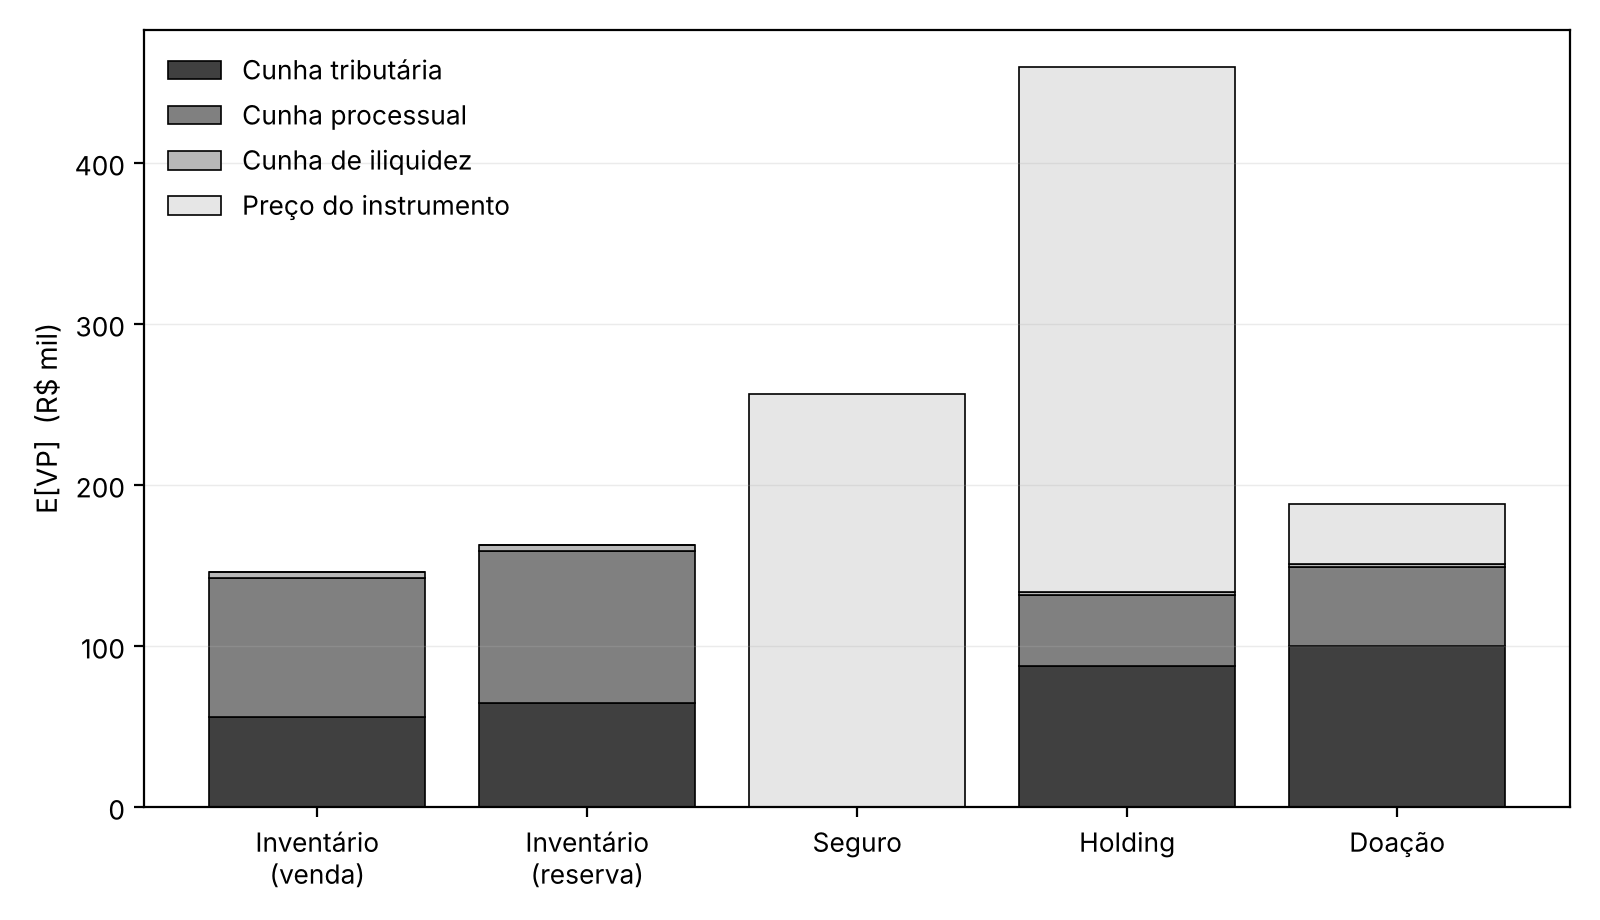
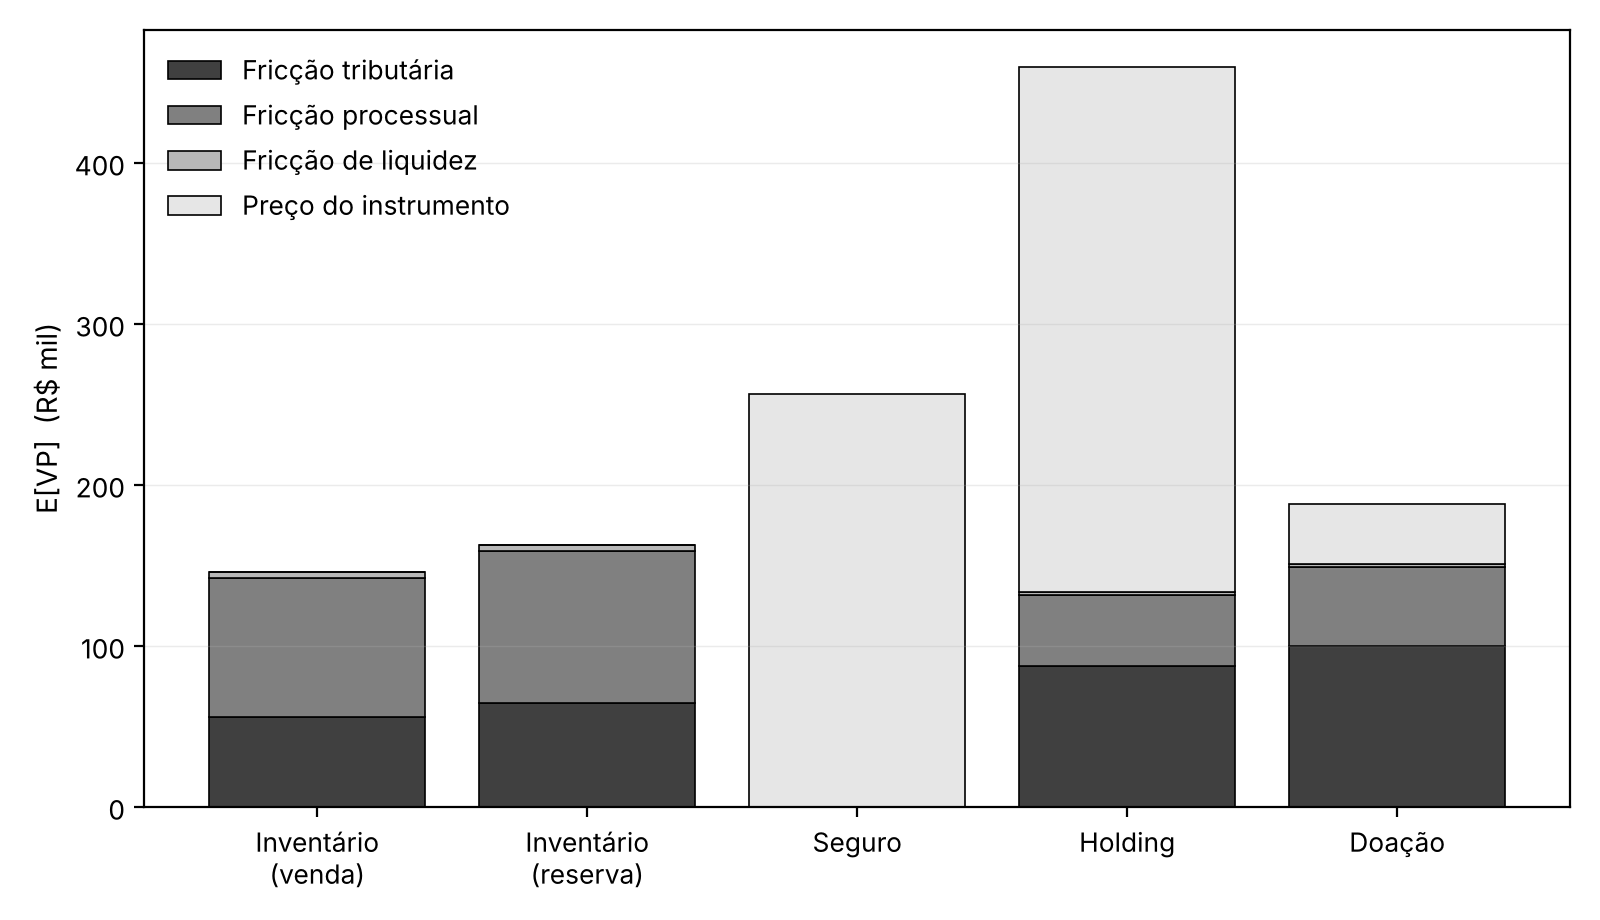
Custo de vida no bloqueio e nova terminologia (v20 da dissertação)
- motor.py: parâmetros consumo_aa e seguro_cobre_consumo (custo de vida da
  família financiado durante o inventário); reserva prévia sem crédito passa a
  usar o mínimo entre crédito e venda (antes devolvia custo infinito).
- rodar_v10.py: linhas de custo de vida nas sensibilidades complementares.
- Tabelas e figuras: "fricção" no lugar de "cunha", "abandono da apólice" no
  lugar de "caducidade".

Claude-Session: https://claude.ai/code/session_01JJ4Z39ne8bo16f1riJNH3E

Changed region(s): [[0.1562, 0.1217, 0.3125, 0.1826], [0.1562, 0.0609, 0.2812, 0.0913]]

diff --git a/motor/motor.py b/motor/motor.py
@@ -38,7 +38,8 @@ def estrategias(cen, r: float, regime: str, produto=("WL", 10),
                 ir_contrafactual=False, plusvalia=None, aliquota_gk=None,
                 aliquota_ir=None, taxa_adm_vgbl=None,
                 holding_constituicao=None, holding_manutencao=None,
-                carga_premio=1.0, gk_transmissao_gratuita=0.0):
+                carga_premio=1.0, gk_transmissao_gratuita=0.0,
+                consumo_aa=0.0, seguro_cobre_consumo=False):
     """Retorna (E, REC, ci, meta, COMP).
 
     COMP[estrategia](t) → dict com a decomposição do MESMO custo que E devolve,
@@ -76,6 +77,17 @@ def estrategias(cen, r: float, regime: str, produto=("WL", 10),
                           tributado a 15% quando a transmissão se faz a VALOR DE
                           MERCADO (art. 23 da Lei 9.532/1997). 0,0 = transmissão
                           pelo valor declarado, sem IR no ato (caso base).
+    v11 (02/nov/2026) — custo de vida durante o bloqueio:
+      consumo_aa          despesa anual da família como fração do patrimônio,
+                          que precisa ser financiada enquanto os bens estão
+                          bloqueados no inventário (0,0 = caso base, omitida).
+                          Financiada pelo mínimo entre crédito-ponte e venda
+                          forçada, na proporção do patrimônio que fica preso no
+                          espólio em cada estratégia (holding e doação retiram
+                          parte dele; seguro e VGBL, dimensionados para o custo
+                          do inventário, não).
+      seguro_cobre_consumo  o capital segurado passa a cobrir também o consumo
+                          do período de bloqueio (capital = CI + consumo).
     """
     ci = custos.custo_inventario(cen.uf, cen.patrimonio, cen.n_herdeiros,
                                  cen.modalidade_inventario, regime,
@@ -98,16 +110,27 @@ def estrategias(cen, r: float, regime: str, produto=("WL", 10),
     cunha = custos.cunha_iliquidez(ci.total, prazo, r_bruto, spread_ponte,
                                    desagio_venda, **kw_gk)
     desc = lambda v, t: v / (1 + r) ** (t + 0.5)
+    # v11: consumo da família durante o bloqueio, financiado como o inventário
+    # (saques mensais ao longo do prazo ≈ montante único com metade do prazo).
+    consumo_total = consumo_aa * cen.patrimonio * prazo / 12
+
+    def _cc(frac):
+        z = {"cunha": 0.0, "iliquidez": 0.0, "tributo_gk": 0.0}
+        if consumo_total <= 0 or frac <= 0:
+            return z
+        return custos.cunha_iliquidez(consumo_total * frac, prazo / 2, r_bruto,
+                                      spread_ponte, desagio_venda, **kw_gk)
+    cc1 = _cc(1.0)
     E, REC, meta, COMP = {}, {}, {}, {}
     Z = {"tributaria": 0.0, "processual": 0.0, "iliquidez": 0.0, "instrumento": 0.0}
     meta["r_desconto"], meta["r_bruto"] = r, r_bruto
 
     # baseline: venda forçada (usa o mínimo entre ponte e venda — família racional)
-    E["baseline_venda"] = lambda t: desc(ci.total + cunha["cunha"], t)
+    E["baseline_venda"] = lambda t: desc(ci.total + cunha["cunha"] + cc1["cunha"], t)
     COMP["baseline_venda"] = lambda t: {
-        "tributaria": desc(ci.itcmd + cunha["tributo_gk"], t),
+        "tributaria": desc(ci.itcmd + cunha["tributo_gk"] + cc1["tributo_gk"], t),
         "processual": desc(ci.honorarios + ci.emolumentos_ou_custas + ci.multa, t),
-        "iliquidez": desc(cunha["iliquidez"], t),
+        "iliquidez": desc(cunha["iliquidez"] + cc1["iliquidez"], t),
         "instrumento": 0.0}
     REC["baseline_venda"] = lambda t: 0.0   # nada foi desembolsado em vida
 
@@ -119,7 +142,11 @@ def estrategias(cen, r: float, regime: str, produto=("WL", 10),
     grossup = ci_com_reserva.total - ci.total
     gu_trib = ci_com_reserva.itcmd - ci.itcmd
     gu_proc = grossup - gu_trib
-    ponte = custos.cunha_iliquidez(ci.total, prazo, r_bruto, spread_ponte, 1e-9)["credito_ponte"]
+    # v11: mínimo entre ponte e venda, como no inventário direto. No caso base o
+    # crédito é sempre mais barato e o resultado é idêntico ao v10; sem crédito a
+    # versão anterior devolvia custo infinito para a reserva.
+    ponte = custos.cunha_iliquidez(ci.total, prazo, r_bruto, spread_ponte,
+                                   desagio_venda, **kw_gk)["cunha"] + cc1["cunha"]
     E["baseline_reserva"] = lambda t: desc(ci.total + grossup + ponte, t)
     COMP["baseline_reserva"] = lambda t: {
         "tributaria": desc(ci.itcmd + gu_trib, t),
@@ -133,7 +160,9 @@ def estrategias(cen, r: float, regime: str, produto=("WL", 10),
     # WL5/10/20/30: quita em N anos; WL60...WL100: quita na idade X; cobertura
     # vitalícia continua após a quitação com custo zero.
     fam, prz = produto
-    p = premios.premio(cen.idade, fam, prz, cen.sexo, ci.total, cen.classe_risco)
+    capital_seg = ci.total + (consumo_total if seguro_cobre_consumo else 0.0)
+    cc_seg = cc1 if not seguro_cobre_consumo else _cc(0.0)
+    p = premios.premio(cen.idade, fam, prz, cen.sexo, capital_seg, cen.classe_risco)
     if p is not None and carga_premio != 1.0:
         p = {**p, "premio_anual": p["premio_anual"] * carga_premio,
              "premio_mensal": p["premio_mensal"] * carga_premio,
@@ -158,7 +187,7 @@ def estrategias(cen, r: float, regime: str, produto=("WL", 10),
             pagos = premios.vp_premios(p, r, min(t + 1, max_anos),
                                        mensal=pagamento_mensal)
             if vit or t < prz:      # cobertura vigente na data do óbito
-                return pagos
+                return pagos + desc(cc_seg["cunha"], t)
             return pagos + E["baseline_venda"](t)   # cobertura expirada
         E["seguro"] = _e_seguro
         E["seguro"].info = p["chave"]
@@ -169,16 +198,18 @@ def estrategias(cen, r: float, regime: str, produto=("WL", 10),
             pagos = premios.vp_premios(p, r, min(t + 1, max_anos),
                                        mensal=pagamento_mensal)
             if vit or t < prz:
-                return {**Z, "instrumento": pagos}
+                return {**Z, "instrumento": pagos,
+                        "iliquidez": desc(cc_seg["iliquidez"], t),
+                        "tributaria": desc(cc_seg["tributo_gk"], t)}
             base = COMP["baseline_venda"](t)
             return {**base, "instrumento": pagos}
         COMP["seguro"] = _c_seguro
         # valor de resgate: fração do capital segurado (= custo do inventário)
         REC["seguro"] = lambda t: resgate.valor_resgate(
-            ci.total, fam, prz, cen.sexo, cen.idade, t)
+            capital_seg, fam, prz, cen.sexo, cen.idade, t)
         meta["seguro"] = {"familia": fam, "prazo": prz, "premio_anual": pa,
                           "premio_mensal": p["premio_mensal"], "p": p,
-                          "max_anos": max_anos, "capital": ci.total,
+                          "max_anos": max_anos, "capital": capital_seg,
                           "chave": p["chave"], "mensal": pagamento_mensal,
                           "carregamento": premios.carregamento_fracionamento(
                               fam, prz, ci.total)}
@@ -205,15 +236,17 @@ def estrategias(cen, r: float, regime: str, produto=("WL", 10),
                                          desagio_venda, **kw_gk)["cunha"] if ci_fora else 0)
     cunha_fora_d = (custos.cunha_iliquidez(ci_fora.total, prazo, r_bruto, spread_ponte,
                                            desagio_venda, **kw_gk) if ci_fora else None)
-    E["holding"] = lambda t: (h["custo_inicial"] + gk_h
+    cc_h = _cc(fora / cen.patrimonio)
+    E["holding"] = lambda t: (h["custo_inicial"] + gk_h + desc(cc_h["cunha"], t)
                               + sum(h["manutencao_anual"] / (1 + r) ** k for k in range(t + 1))
                               + (desc(ci_fora.total + cunha_fora, t) if ci_fora else 0))
     COMP["holding"] = lambda t: {
-        "tributaria": h["itcmd_doacao"] + gk_h + (desc(ci_fora.itcmd + cunha_fora_d["tributo_gk"], t)
+        "tributaria": h["itcmd_doacao"] + gk_h + desc(cc_h["tributo_gk"], t) + (desc(ci_fora.itcmd + cunha_fora_d["tributo_gk"], t)
                                            if ci_fora else 0.0),
         "processual": (desc(ci_fora.honorarios + ci_fora.emolumentos_ou_custas + ci_fora.multa, t)
                        if ci_fora else 0.0),
-        "iliquidez": (desc(cunha_fora_d["iliquidez"], t) if ci_fora else 0.0),
+        "iliquidez": (desc(cunha_fora_d["iliquidez"], t) if ci_fora else 0.0)
+                     + desc(cc_h["iliquidez"], t),
         "instrumento": h["constituicao"] + sum(h["manutencao_anual"] / (1 + r) ** k
                                                for k in range(t + 1))}
     REC["holding"] = lambda t: 0.0   # custo de constituição é afundado
@@ -246,14 +279,16 @@ def estrategias(cen, r: float, regime: str, produto=("WL", 10),
         cunha_res_d = custos.cunha_iliquidez(ci_res.total, prazo, r_bruto, spread_ponte,
                                              desagio_venda, **kw_gk)
         cunha_res = cunha_res_d["cunha"]
+        cc_d = _cc(residuo / cen.patrimonio)
         E["doacao"] = lambda t: (d["total_data_zero"]
-                                 + desc(ci_res.total + cunha_res, t))
+                                 + desc(ci_res.total + cunha_res + cc_d["cunha"], t))
         COMP["doacao"] = lambda t: {
-            "tributaria": d["itcmd_doacao"] + desc(ci_res.itcmd + cunha_res_d["tributo_gk"], t),
+            "tributaria": d["itcmd_doacao"] + desc(ci_res.itcmd + cunha_res_d["tributo_gk"]
+                                                   + cc_d["tributo_gk"], t),
             "processual": d["emolumentos"] + desc(ci_res.honorarios
                                                   + ci_res.emolumentos_ou_custas
                                                   + ci_res.multa, t),
-            "iliquidez": desc(cunha_res_d["iliquidez"], t),
+            "iliquidez": desc(cunha_res_d["iliquidez"] + cc_d["iliquidez"], t),
             "instrumento": d["honorarios"]}
     else:
         E["doacao"] = lambda t: d["total_data_zero"]
@@ -285,7 +320,7 @@ def estrategias(cen, r: float, regime: str, produto=("WL", 10),
                 ir_morte = custos.aliquota_vgbl_regressiva(h) * max(v_nom - A, 0)
                 w_nom = A * (1 + g * (1 - t_ir)) ** h
                 dif_real = (v_nom - ir_morte - w_nom) / (1 + pi) ** h
-                return v["iof_aportes"] - dif_real / (1 + rl) ** h
+                return v["iof_aportes"] - dif_real / (1 + rl) ** h + desc(cc1["cunha"], t)
             E["vgbl"] = _e_vgbl
             def _c_vgbl(t, A=A, g=g_nom, pi=pi, t_ir=t_ir, v=v, rl=r):
                 """Separa o custo do VGBL em preço do produto e efeito tributário.
@@ -300,8 +335,8 @@ def estrategias(cen, r: float, regime: str, produto=("WL", 10),
                 w_nom = A * (1 + g * (1 - t_ir)) ** h
                 instr = (v_sem - v_nom) / disc
                 trib = v["iof_aportes"] - (v_sem - ir_morte - w_nom) / disc
-                return {"tributaria": trib, "processual": 0.0,
-                        "iliquidez": 0.0, "instrumento": instr}
+                return {"tributaria": trib + desc(cc1["tributo_gk"], t), "processual": 0.0,
+                        "iliquidez": desc(cc1["iliquidez"], t), "instrumento": instr}
             COMP["vgbl"] = _c_vgbl
         else:
             E["vgbl"] = lambda t: v["iof_aportes"] + sum(adm / (1 + r) ** k for k in range(t + 1))

diff --git a/motor/gerar_tabelas.py b/motor/gerar_tabelas.py
@@ -177,7 +177,7 @@ def t1_principal():
     return gravar(
         "T1",
         "Tabela 1 – Custo sucessório por cenário e estratégia (regime 2026, taxa "
-        "real bruta de 6% a.a., sem caducidade), em R$ de valor presente",
+        "real bruta de 6% a.a., sem abandono da apólice), em R$ de valor presente",
         ["Cenário / estratégia", "E[VP]", "CTE-95", "Reversibilidade", "Fronteira"],
         linhas, [3200, 1450, 1450, 1800, 1150],
         "Fonte: elaboração própria (2026). A coluna Fronteira indica se a estratégia "
@@ -206,7 +206,7 @@ def t2_ies():
         "T2",
         "Tabela 2 – Índice de Eficiência Sucessória: decomposição do custo esperado "
         "no cenário A, em R$ de valor presente",
-        ["Estratégia", "Cunha tributária", "Cunha processual", "Cunha de iliquidez",
+        ["Estratégia", "Fricção tributária", "Fricção processual", "Fricção de liquidez",
          "Preço do instrumento", "Total"],
         linhas, [2300, 1350, 1350, 1350, 1350, 1300],
         "Fonte: elaboração própria (2026). A soma das quatro parcelas reproduz o "
@@ -234,7 +234,7 @@ def t3_juro():
         "cenário A e composição da fronteira",
         ["Taxa real", "Seguro", "Inventário", "Razão", "Fronteira de eficiência"],
         linhas, [1000, 1500, 1500, 900, 4000],
-        "Fonte: elaboração própria (2026). Regime 2026, produto WL10, sem caducidade.")
+        "Fonte: elaboração própria (2026). Regime 2026, produto WL10, sem abandono da apólice.")
 
 
 # =============================================================== T4
@@ -256,11 +256,11 @@ def t4_caducidade():
                          for lp in LAPSOS] + ["Variação"]
     return gravar(
         "T4",
-        "Tabela 4 – Efeito da caducidade sobre o custo de cauda do seguro (CTE-95), "
+        "Tabela 4 – Efeito do abandono da apólice sobre o custo de cauda do seguro (CTE-95), "
         "por cenário, em R$ de valor presente",
         cab, linhas, [900, 1350, 1350, 1350, 1350, 1350, 1050],
         "Fonte: elaboração própria (2026). A coluna de variação compara λ = 20% a.a. "
-        "com a ausência de caducidade. Sobre a calibração de λ e a razão de a grade "
+        "com a ausência de abandono. Sobre a calibração de λ e a razão de a grade "
         "ir até 20% ao ano, ver a discussão de fontes nesta seção.")
 
 
@@ -430,7 +430,7 @@ def t7_sem_credito():
         "T7",
         "Tabela 9 – Efeito da indisponibilidade de crédito-ponte sobre o custo "
         "e sobre a fronteira de eficiência, por cenário (regime 2026, taxa real "
-        "bruta de 6% a.a., sem caducidade), em R$ de valor presente",
+        "bruta de 6% a.a., sem abandono da apólice), em R$ de valor presente",
         ["Cenário", "Inventário base", "Inventário s/ crédito",
          "Seguro base", "Seguro s/ crédito", "Fronteira base",
          "Fronteira s/ crédito"],
@@ -462,7 +462,7 @@ def t8_pos2027():
         "T8",
         "Tabela 10 – Sensibilidade regulatória: regime de 2026 e regime pós-2027 "
         "(LC nº 227/2026), por cenário (taxa real bruta de 6% a.a., sem "
-        "caducidade), em R$ de valor presente",
+        "abandono da apólice), em R$ de valor presente",
         ["Cenário", "Inventário 2026", "Inventário pós-2027",
          "Holding 2026", "Holding pós-2027", "Fronteira 2026",
          "Fronteira pós-2027"],
@@ -518,9 +518,9 @@ def figuras():
 
     # F2 — decomposição do IES, cenário A
     sub = d[d.cenario == "A"]
-    parcelas = [("ies_e_tributaria", "Cunha tributária", "0.25"),
-                ("ies_e_processual", "Cunha processual", "0.50"),
-                ("ies_e_iliquidez", "Cunha de iliquidez", "0.72"),
+    parcelas = [("ies_e_tributaria", "Fricção tributária", "0.25"),
+                ("ies_e_processual", "Fricção processual", "0.50"),
+                ("ies_e_iliquidez", "Fricção de liquidez", "0.72"),
                 ("ies_e_instrumento", "Preço do instrumento", "0.90")]
     fig, ax = plt.subplots(figsize=(8.0, 4.6))
     rot = [CURTO[e].replace(" (", "\n(") for e in sub.estrategia]
@@ -570,7 +570,7 @@ def t11_taxa_vgbl():
          "VGBL na fronteira"],
         linhas, [2100, 1700, 1700, 1700, 1500],
         "Fonte: elaboração própria (2026). Regime 2026, taxa real bruta de 6% a.a., "
-        "sem caducidade. A grade é ancorada em fonte: 1,32% é a média oficial do "
+        "sem abandono da apólice. A grade é ancorada em fonte: 1,32% é a média oficial do "
         "segmento aberto e 1,75% a média amostral de Soares e Campani (2020); os "
         "extremos delimitam a faixa em que se situa a quase totalidade dos fundos "
         "de previdência em operação. " + ". ".join(nota) + ".")
@@ -623,7 +623,7 @@ def t12_holding_doacao():
     m = lim.manutencao_sai_fronteira
     h = lim.honor_doacao_sai_fronteira
     nota = (f"Fonte: elaboração própria (2026). Regime 2026, taxa real bruta de 6% a.a., "
-            f"sem caducidade. Caso base: constituição de R$ 25 mil, manutenção de R$ 18 mil "
+            f"sem abandono da apólice. Caso base: constituição de R$ 25 mil, manutenção de R$ 18 mil "
             f"anuais e honorário de 1,5% do valor doado. Cada linha altera um parâmetro, "
             f"exceto as duas últimas. Limiares: a holding deixa a fronteira com manutenção "
             f"anual a partir de cerca de R$ {m['E']/1000:.0f} mil no cenário E, "
@@ -650,7 +650,13 @@ def t13_complementares():
            ("tabua", "ibge_2024", "Tábua IBGE 2024 (população geral)"),
            ("desagio_sem_credito", 0.15, "Sem crédito-ponte, deságio de 15%"),
            ("desagio_sem_credito", 0.25, "Sem crédito-ponte, deságio de 25%"),
-           ("desagio_sem_credito", 0.35, "Sem crédito-ponte, deságio de 35%")]
+           ("desagio_sem_credito", 0.35, "Sem crédito-ponte, deságio de 35%"),
+           ("consumo", "com_credito", "Custo de vida no bloqueio, com crédito-ponte"),
+           ("consumo", "sem_credito", "Custo de vida no bloqueio, sem crédito-ponte"),
+           ("consumo", "com_credito_seguro_cobre",
+            "Idem, com crédito e seguro dimensionado também para o custo de vida"),
+           ("consumo", "sem_credito_seguro_cobre",
+            "Idem, sem crédito e seguro dimensionado também para o custo de vida")]
     linhas = []
     for eixo, val, nome in rot:
         sub = d[(d.eixo == eixo) & (d.valor == str(val))]
@@ -663,12 +669,15 @@ def t13_complementares():
         "seguro e o do inventário direto no cenário A e estratégias na fronteira de "
         "eficiência, por cenário",
         ["Parâmetro alterado", "Razão A", "A", "B", "C", "D", "E", "F"],
-        linhas, [1900, 700, 1070, 1070, 1070, 1070, 1070, 1070],
+        linhas, [1780, 820, 1070, 1070, 1070, 1070, 1070, 1070],
         "Fonte: elaboração própria (2026). Regime 2026, taxa real bruta de 6% a.a., "
-        "sem caducidade, produto WL10. Caso base: alíquota de 15%, prêmio da tabela "
-        "da seguradora, tábua BR-EMS mt 2026 e crédito-ponte disponível. Nas três "
-        "últimas linhas a família não dispõe de crédito e realiza ganho de capital "
-        "sobre 30% do valor vendido. " + NOTA_ABREV)
+        "sem abandono da apólice, produto WL10. Caso base: alíquota de 15%, prêmio da "
+        "tabela da seguradora, tábua BR-EMS mt 2026, crédito-ponte disponível e custo de "
+        "vida da família durante o bloqueio omitido. Nas linhas sem crédito-ponte a "
+        "família realiza ganho de capital sobre 30% do valor vendido. Nas linhas de "
+        "custo de vida, a família despende 4% do patrimônio ao ano, financiados durante "
+        "o prazo do inventário na proporção dos bens que permanecem no espólio. "
+        + NOTA_ABREV)
 
 
 def figura_arvore():
@@ -697,7 +706,7 @@ def figura_arvore():
       style="rounded,filled", fillcolor="gray92"];
   a  [label="Cenário A\nNa fronteira: inventário, seguro\ne doação. Escolha pela aversão\nao risco de cauda.",
       style="rounded,filled", fillcolor="gray92"];
-  ca [label="Condição para o seguro:\npersistência do contrato\n(sai da fronteira com\ncaducidade de 2% a.a.)",
+  ca [label="Condição para o seguro:\npersistência do contrato\n(sai da fronteira com\nabandono de 2% a.a.)",
       shape=note, style="", fontsize=9.5, width=1.6];
   {rank=same; q1; g;}  {rank=same; q2; h;}  {rank=same; q3; bf;}
   {rank=same; q4; e;}  {rank=same; q5; cd;} {rank=same; a; ca;}

diff --git a/motor/rodar_v10.py b/motor/rodar_v10.py
@@ -148,6 +148,16 @@ def complementares():
     # doação, e o ganho latente fica com os herdeiros em todas as estratégias.
     # Aplicá-la só às transmissões em vida enviesaria contra holding e doação.
     # tábua: troca o arquivo e limpa o cache
+    # v11: custo de vida da família durante o bloqueio do inventário — despesa
+    # anual de 4% do patrimônio financiada na proporção dos bens presos no espólio.
+    CONS = 0.04
+    coleta(linhas, "consumo", "com_credito", consumo_aa=CONS)
+    coleta(linhas, "consumo", "sem_credito", consumo_aa=CONS,
+           spread_ponte=SEM_CREDITO, plusvalia=0.30)
+    coleta(linhas, "consumo", "com_credito_seguro_cobre", consumo_aa=CONS,
+           seguro_cobre_consumo=True)
+    coleta(linhas, "consumo", "sem_credito_seguro_cobre", consumo_aa=CONS,
+           seguro_cobre_consumo=True, spread_ponte=SEM_CREDITO, plusvalia=0.30)
     original = atuarial.ARQ_TABUA
     for nome in ("tabua_brems_mt_2021.csv", "tabua_ibge_2024.csv"):
         atuarial.ARQ_TABUA = atuarial.DIR_PARAMS / nome
